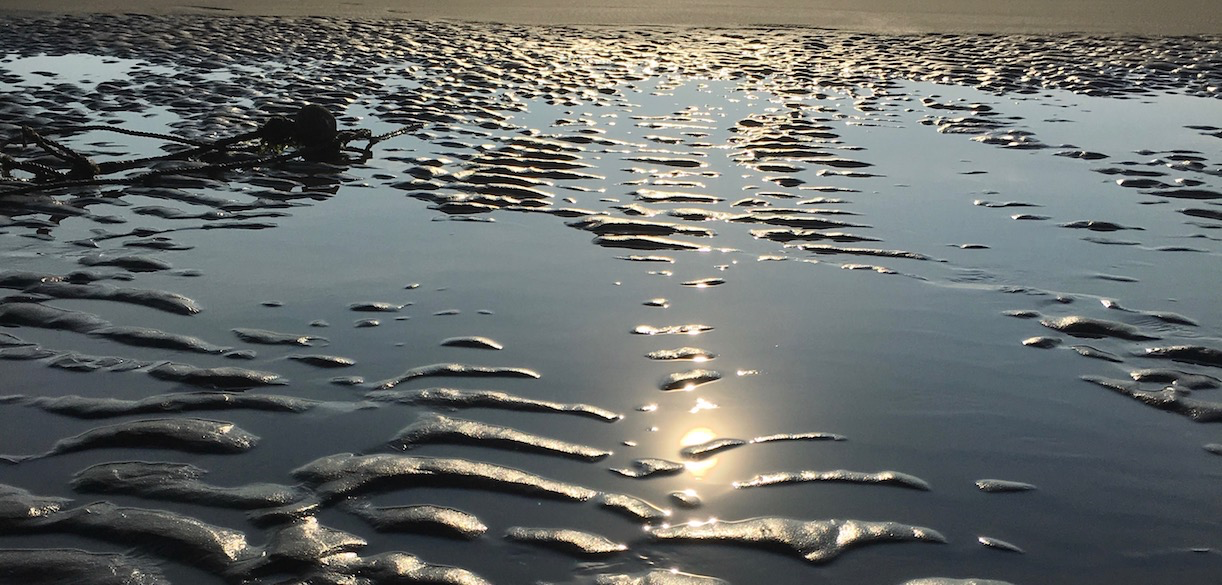
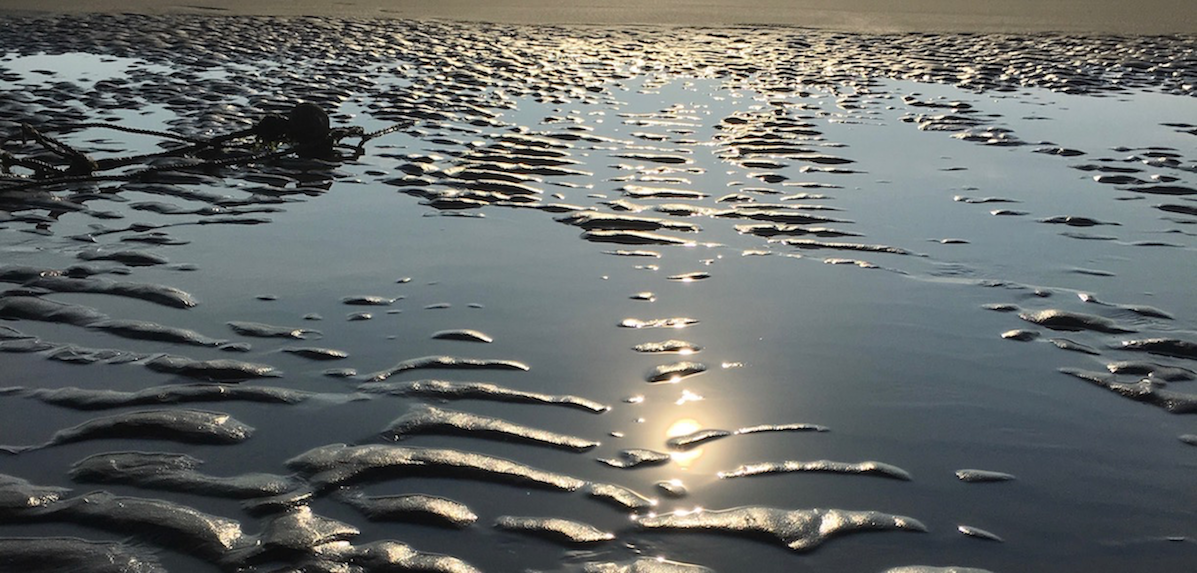
Complete Single page layout entrance, first-face 2 parts

diff --git a/SP_Layout/sp_layout.html b/SP_Layout/sp_layout.html
@@ -4,8 +4,8 @@
 	<meta charset="utf-8">
 	<title>Single Page Layout</title>
 	<link href="https://fonts.googleapis.com/css?family=Raleway:400,700" rel="stylesheet">
-	<link rel="stylesheet" href="normalize.css">
-	<link rel="stylesheet" href="sp_layout.css">
+	<link rel="stylesheet" href="css/normalize.css">
+	<link rel="stylesheet" href="css/sp_layout.css">
 	<script type="text/javascript" src="modernizr.custom.min.js"></script>
 	<script type="text/javascript" src="jquery-3.1.1.min.js"></script>
 	<script type="text/javascript" src="sp_layout.js"></script>
@@ -14,20 +14,30 @@
 	<header class = "header">
 		<p class = "start-sentence-sub">It's about a beautiful...</p>
 		<h1 class = "start-sentence">STORY BETWEEN US</h1>
-		<p class = "introduction">Yes. This is for you</p>
+		<p class = "introduction">Since 2016.03.11</p>
 		<div class = "buttons">
-			<a class = "button" href="#overture">The Spark</a>
+			<a class = "button" id = "spark_btn" href = "#entrance">The Spark</a>
 		</div>
 	</header>
 	<section class = "overture" id = "overture">
-		<img src="./image/overture.png" alt="overture" width="1222" height="585">
-		<img src="./image/slide1.png" alt="slide1" width="1222" height="585">
-		<img src="./image/slide2.png" alt="slide2" width="1222" height="585">
-		<img src="./image/slide3.png" alt="slide3" width="1222" height="585">
-		<h2 class = "overture-start">INVISIBLE SPARK</h2>
+		<img src="./image/overture.png" alt="overture" width="1222" height="400">
+		<img src="./image/slide01.png" alt="slide1" width="1222" height="400">
+		<img src="./image/slide02.png" alt="slide2" width="1222" height="400">
+		<img src="./image/slide03.png" alt="slide3" width="1222" height="400">
+		<img src="./image/slide04.png" alt="slide2" width="1222" height="400">
+		<img src="./image/slide05.png" alt="slide3" width="1222" height="400">
 	</section>
-	<section class = "first_face">
-		
+	<section class = "entrance" id = "entrance">
+		<h2 class = "entrance-start">INVISIBLE SPARK</h2>
+	</section>
+	<section class = "first-face">
+		<ul>
+			<li class = "ff-img"><img src="./image/ff_0.jpg" width="218" height="290" alt="還記得我們第一次見面是在我們家煮火鍋，緊張到吃不下幾片肉🙇"></li>
+			<li class = "ff-img"><img src="./image/ff_1.jpg" width="218" height="290" alt="第一次單獨約會👫，在來新竹的高鐵上拍的，我們還怕認不出對方"></li>
+			<li class = "ff-img"><img src="./image/ff_2.jpg" width="218" height="290" alt="你生日前一週，也是我們第一次約會，豬排丼飯造型的蛋糕讓我們笑了"></li>
+			<li class = "ff-img"><img src="./image/ff_3.jpg" width="218" height="290" alt="第一次一起合照，我們感覺沒有很熟卻也感覺認識很久，有一種莫名的熟悉感"></li>
+			<li class = "ff-img"><img src="./image/ff_4.jpg" width="218" height="290" alt="我很白癡的把你的一切記錄下來，現在看起來感覺得到當時酸甜的滋味❤"></li>
+		</ul>
 	</section>
 	<section class = "relationship">
 		

diff --git a/SP_Layout/css/sp_layout.css b/SP_Layout/css/sp_layout.css
@@ -21,8 +21,8 @@ body{
 /*..........................*/
 
 .header{
-	padding: 250px 30px 80px;
-	background: #151515 url('./image/beach.png') no-repeat fixed left top;
+	padding: 250px 30px 69px;
+	background: #151515 url('../image/beach.png') no-repeat  left top;
 }
 .start-sentence-sub{
 	margin: 0 0 0px;
@@ -45,7 +45,8 @@ body{
 }
 .introduction{
 	margin: 0 0 50px;
-	font-size: 1.4rem;
+	font-size: 1.5rem;
+	letter-spacing: 2px;
 }
 .buttons{
 	padding-bottom: 42px;
@@ -79,7 +80,8 @@ body{
 	color: #c0c0c0;*/
 	/*background-color: #fff;
 	color: #333;*/
-	height: 585px;
+	height: 400px;
+	width: 100%;
 	overflow: hidden;
 	position: relative;
 }
@@ -93,16 +95,22 @@ body{
     display: inline;
 }
 
-.overture-start{
-	position: relative;
+/*............................*/
+/*..... entrance setting .....*/
+/*............................*/
+.entrance{
+	height: 184px;
+	background-color: #151515;
+}
+.entrance-start{
 	display: inline-block;
-	padding-bottom: 5px;
+	margin-top: 10px;
 	letter-spacing: 2px;
 	font-size: 4rem;
 	border-bottom: 1px solid #999;
 }
-.overture-start::before,
-.overture-start::after{
+.entrance-start::before,
+.entrance-start::after{
 	content: '';
 	position: absolute;
 	left: 0;
@@ -110,8 +118,45 @@ body{
 	bottom: 0;
 	border-bottom: 1px solid #999;
 }
-.overture-start::after{
-	bottom: 5px;
+
+/*..............................*/
+/*..... first-face setting .....*/
+/*..............................*/
+.first-face{
+	display: block;
+	width: 100%;
+	height: 390px;
+	background-color: #ffb6c1;
+	padding: 0px;
+	margin: 0;
+}
+.first-face ul{
+	margin: 0px;
+	padding: 0px;
+}
+.first-face li{
+	position: relative;
+	float: left;
+	width: 218px;
+	height: 290px;
+	margin: 50px 0 50px;
+	color: #ffffff;
+	line-height: 2rem;
+	list-style-type: none;
+}
+.first-face div{
+	position: absolute;
+	width: 100%;
+	height: 100%;
+	top: 0px;
+	left: 0px;
+	padding: 20px;
+	background-color: rgba(17, 179, 179, 0.7);
+}
+.first-face p{
+	position: relative;
+	top: 10px;
+	letter-spacing: 2px;
 }
 
 /*..........................*/

diff --git a/SP_Layout/css/reset.css b/SP_Layout/css/reset.css
@@ -1,0 +1,48 @@
+/* http://meyerweb.com/eric/tools/css/reset/ 
+   v2.0 | 20110126
+   License: none (public domain)
+*/
+
+html, body, div, span, applet, object, iframe,
+h1, h2, h3, h4, h5, h6, p, blockquote, pre,
+a, abbr, acronym, address, big, cite, code,
+del, dfn, em, img, ins, kbd, q, s, samp,
+small, strike, strong, sub, sup, tt, var,
+b, u, i, center,
+dl, dt, dd, ol, ul, li,
+fieldset, form, label, legend,
+table, caption, tbody, tfoot, thead, tr, th, td,
+article, aside, canvas, details, embed, 
+figure, figcaption, footer, header, hgroup, 
+menu, nav, output, ruby, section, summary,
+time, mark, audio, video {
+	margin: 0;
+	padding: 0;
+	border: 0;
+	font-size: 100%;
+	font: inherit;
+	vertical-align: baseline;
+}
+/* HTML5 display-role reset for older browsers */
+article, aside, details, figcaption, figure, 
+footer, header, hgroup, menu, nav, section {
+	display: block;
+}
+body {
+	line-height: 1;
+}
+ol, ul {
+	list-style: none;
+}
+blockquote, q {
+	quotes: none;
+}
+blockquote:before, blockquote:after,
+q:before, q:after {
+	content: '';
+	content: none;
+}
+table {
+	border-collapse: collapse;
+	border-spacing: 0;
+}

diff --git a/SP_Layout/sp_layout.js b/SP_Layout/sp_layout.js
@@ -6,7 +6,7 @@ $(function(){
 
 	    $slides.eq(currentIndex).fadeIn();
 
-	    setInterval(showNextSlide, 6000);
+	    setInterval(showNextSlide, 5000);
 
 	    function showNextSlide(){
 	    	var nextIndex = (currentIndex + 1) % slideCount;
@@ -21,7 +21,15 @@ $(function(){
 	    	}
 	    }
 	})
+	$('.ff-img').hover(function(){
+		//load img's alt to li element
+		$(this).append("<div><p>" + $(this).children('img').attr('alt') + "</p></div>");
+		$(this).children('div').fadeIn(300);
+		$(this).children('div').children('p').animate({top: '0px'}, 300);
+	}, function(){
+		$(this).children('div').fadeOut(300);
+		$(this).children('div').children('p').animate({top: '10px'}, 300, function(){ 
+																			$(this).parent('div').remove();
+																		});
+	});
 })
-function scrollToThere(){
-		$('.overture').scrollTo();
-}
